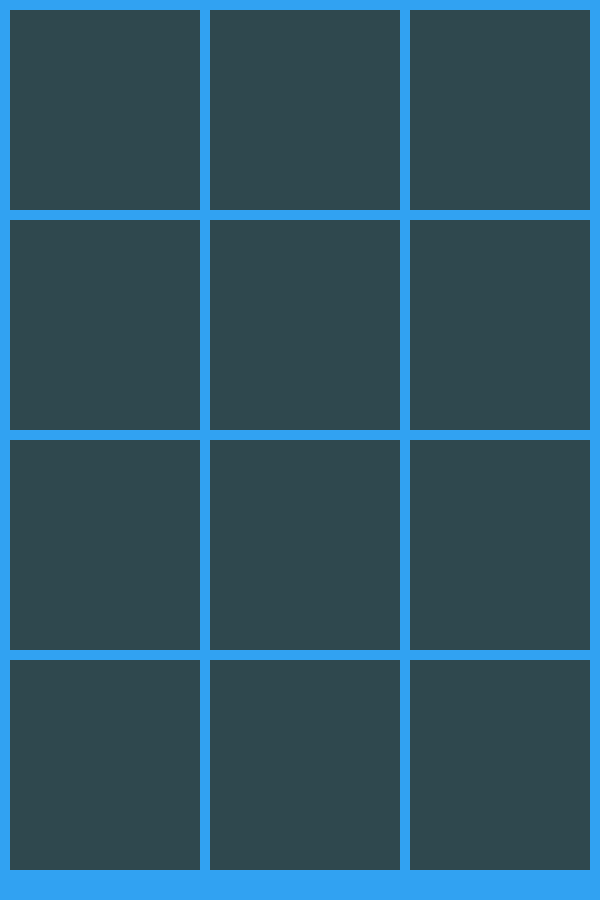
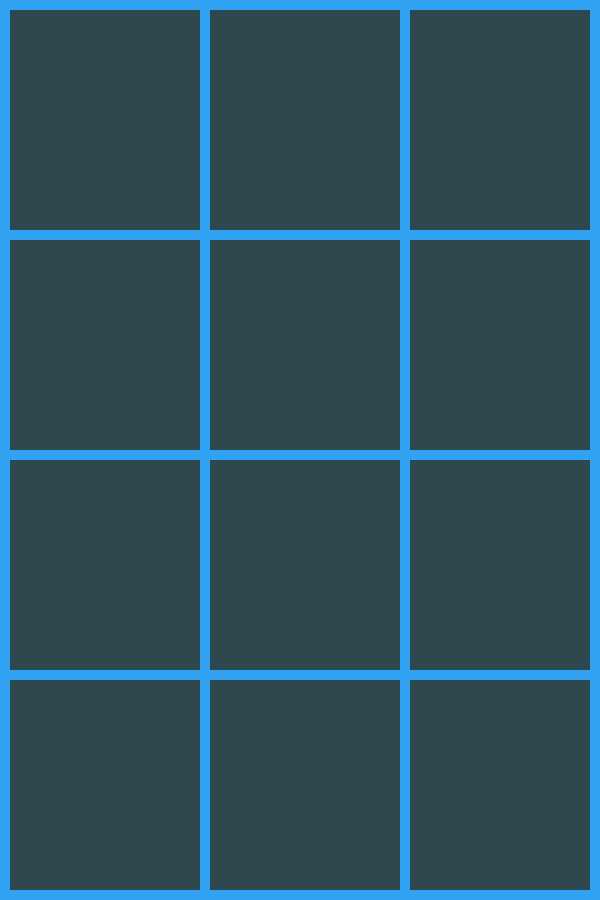
moles are clickable

diff --git a/app/scripts/objects/mole.js b/app/scripts/objects/mole.js
@@ -1,3 +1,4 @@
+('use strict');
 export default class Mole extends Phaser.GameObjects.Sprite {
   /**
    *  A simple prefab (extended game object class), displaying a spinning
@@ -5,29 +6,38 @@ export default class Mole extends Phaser.GameObjects.Sprite {
    *
    *  @extends Phaser.GameObjects.Sprite
    */
+
   constructor(scene, gridX, gridY) {
     super(scene, 0, 0, "moleIcon");
 
     // 600 x gives 200 per mole
     // 900 y gives 225 per mole
+    this.tileWidth = 196.6;
+    this.tileHight = 222.5;
     this.gridPosX = gridX;
     this.gridPosY = gridY;
-    this.gridPixelPosX = 200 * gridX;
-    this.gridPixelPosY = 255 * gridY;
+    this.gridPixelPosX = this.tileWidth * gridX + this.tileWidth / 2 + 10;
+    this.gridPixelPosY = this.tileHight * gridY + this.tileHight / 2 + 10;
     this.scene = scene;
- 
-    this.setOrigin(0.5);
+    this.orgTint;
+
+    this.setOrigin(0.5, 0.5);
     this.setPosition(this.gridPixelPosX, this.gridPixelPosY);
-    this.cellData = this.scene.add.image(
-      this.gridPixelPosX,
-      this.gridPixelPosY,
-      'moleIcon'
-    );
+    this.cellData = this.scene.add
+      .image(this.gridPixelPosX, this.gridPixelPosY, "moleIcon")
+      .setInteractive();
+    this.cellData.depth = 1;
+    this.cellData.on("pointerdown", function(pointer) {
+      if (this.tintBottomLeft != 7368031) { // need to define a variable for turned-off color.
+        this.setTint(0x5F6D70);
+      } else {
+        this.setTint();
+      }
+    });
   }
 
-  /**
-   *  Increment the angle smoothly.
-   */
+  onClickListener(sender) {}
+
   update() {
     // Get called from main.js update
     // this.angle += 0.1;

diff --git a/app/scripts/objects/playGrid.js b/app/scripts/objects/playGrid.js
@@ -1,4 +1,5 @@
-import Mole from './Mole';
+import Mole from "./Mole";
+import { create } from "domain";
 
 export default class PlayGrid extends Phaser.GameObjects.Sprite {
   /**
@@ -8,9 +9,8 @@ export default class PlayGrid extends Phaser.GameObjects.Sprite {
    *  @extends Phaser.GameObjects.Sprite
    */
   constructor(scene) {
-    super(scene, 0, 0, 'PlayGrid');
+    super(scene, 0, 0, "playGrid");
 
-    debugger;
     const x = scene.cameras.main.width / 2;
     const y = scene.cameras.main.height / 2;
 
@@ -56,7 +56,7 @@ export default class PlayGrid extends Phaser.GameObjects.Sprite {
         setGridArray: setGridArray
       };
     };
- 
+
     var Row = function(xSize, yCurrentRow) {
       var row = [];
       var gameGrid = vm.gameGrid.getListOfCells();
@@ -64,7 +64,7 @@ export default class PlayGrid extends Phaser.GameObjects.Sprite {
         // pop a reference to the cell in a list as well for convenience
         //this.aMole = this.add.existing(new Mole(this));
         var mole = scene.add.existing(new Mole(scene, i, yCurrentRow));
-      
+
         gameGrid.push(mole);
       }
 
@@ -76,7 +76,7 @@ export default class PlayGrid extends Phaser.GameObjects.Sprite {
         getRow: getRow
       };
     };
-    
+
     function activate() {
       var columnAmount = 3;
       var rowAmount = 4; // total of 12 cells

diff --git a/app/scripts/scenes/main.js b/app/scripts/scenes/main.js
@@ -1,5 +1,5 @@
 import PlayGrid from '@/objects/PlayGrid';
-import Mole from '@/objects/Mole';
+//import Mole from '@/objects/Mole';
 
 export default class Main extends Phaser.Scene {
   /**
@@ -21,7 +21,6 @@ export default class Main extends Phaser.Scene {
   create(/* data */) {
     //  TODO: Replace this content with really cool game code here :)
     this.grid = this.add.existing(new PlayGrid(this));
-    
     // this.aMole = this.add.existing(new Mole(this, 2, 2));
   }
 
